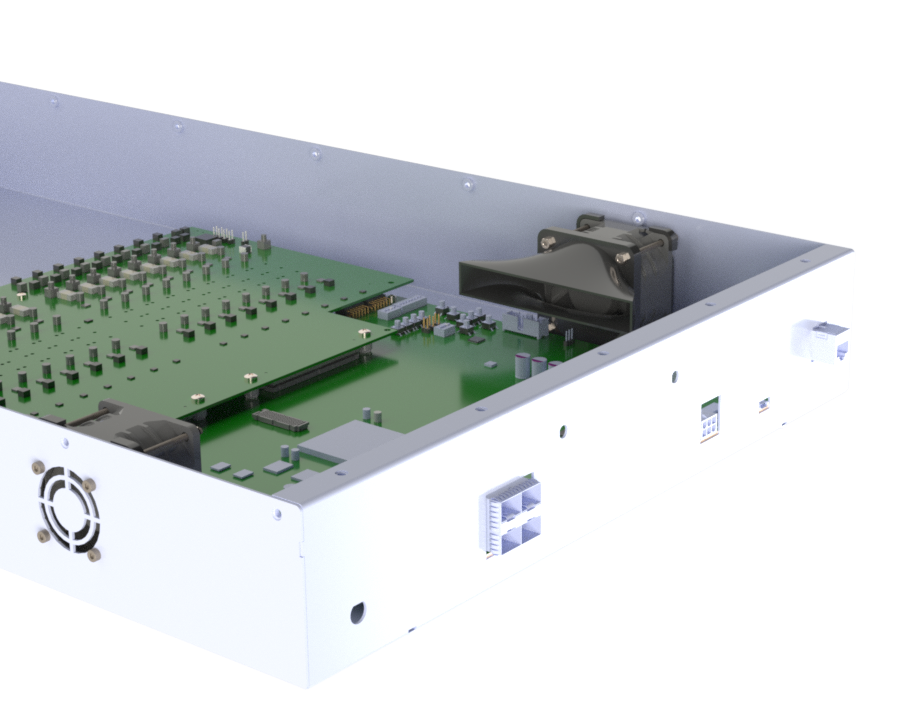
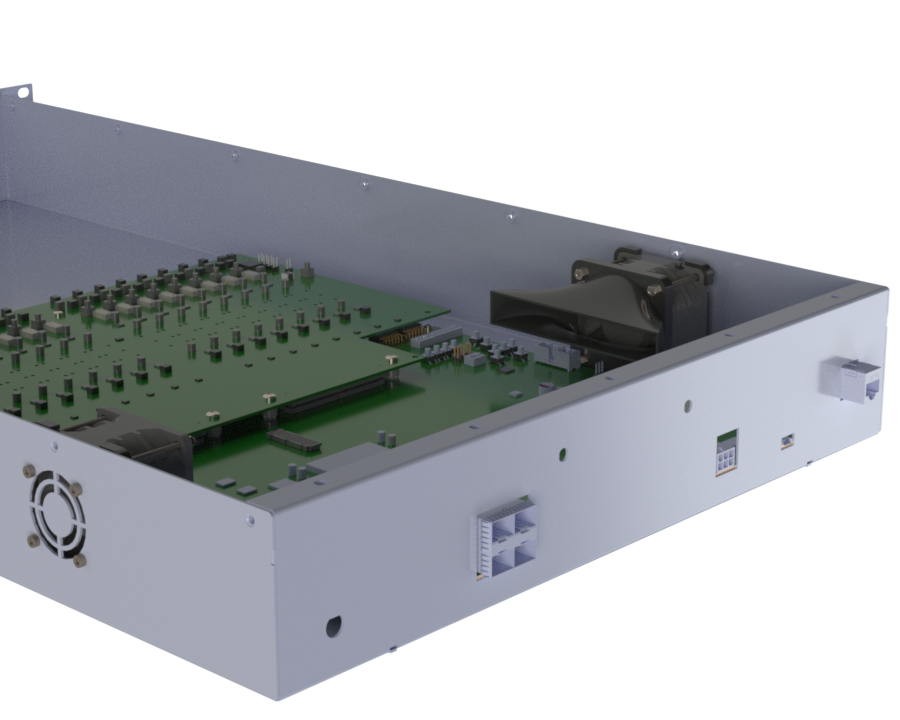
aresgt

diff --git a/docs/stylesheets/extra.css b/docs/stylesheets/extra.css
@@ -140,3 +140,88 @@
   color: var(--md-default-fg-color--light);
   margin: 1rem 0 0.4rem;
 }
+
+/* Download cards — bolder alternative to plain button rows */
+.download-cards {
+  display: grid;
+  grid-template-columns: repeat(auto-fit, minmax(190px, 1fr));
+  gap: 1.25rem;
+  margin: 1.5rem 0;
+}
+
+.download-card {
+  position: relative;
+  display: flex;
+  flex-direction: column;
+  align-items: center;
+  text-align: center;
+  padding: 1.75rem 1.25rem 1.5rem;
+  border-radius: 14px;
+  border: 1px solid var(--md-default-fg-color--lightest);
+  background: linear-gradient(165deg, var(--md-code-bg-color) 0%, transparent 120%);
+  overflow: hidden;
+  transition: transform 0.25s ease, box-shadow 0.25s ease, border-color 0.25s ease;
+}
+
+.download-card::before {
+  content: "";
+  position: absolute;
+  top: 0;
+  left: 0;
+  right: 0;
+  height: 4px;
+  background: var(--accent, var(--md-primary-fg-color));
+  opacity: 0.35;
+  transition: opacity 0.25s ease;
+}
+
+.download-card:hover {
+  transform: translateY(-6px);
+  box-shadow: 0 14px 28px rgba(0, 0, 0, 0.28);
+  border-color: var(--accent, var(--md-primary-fg-color));
+}
+
+.download-card:hover::before {
+  opacity: 1;
+}
+
+/* Icon: sized via a wrapper span we control, not a guessed Material internal class */
+.download-card .card-icon {
+  display: inline-flex;
+  width: 2.75rem;
+  height: 2.75rem;
+  margin-bottom: 0.75rem;
+  color: var(--accent, var(--md-primary-fg-color));
+}
+
+.download-card .card-icon svg,
+.download-card .card-icon img {
+  width: 100%;
+  height: 100%;
+  fill: currentColor;
+}
+
+.download-card strong {
+  display: block;
+  font-size: 1.05rem;
+  margin-bottom: 0.4rem;
+}
+
+.download-card p {
+  font-size: 0.82rem;
+  color: var(--md-default-fg-color--light);
+  margin: 0 0 1.1rem;
+  min-height: 2.6em;
+}
+
+.download-card a.md-button {
+  width: 100%;
+  border-radius: 999px;
+  border-color: var(--accent, var(--md-primary-fg-color));
+}
+
+.download-card a.md-button:hover {
+  background: var(--accent, var(--md-primary-fg-color));
+  border-color: var(--accent, var(--md-primary-fg-color));
+  color: #fff;
+}

diff --git a/docs/hardware/tpu-pads/corner-pads-overview.md b/docs/hardware/tpu-pads/corner-pads-overview.md
@@ -16,6 +16,26 @@
 
 ---
 
+## HD Renders
+
+<div class="render-scroll" markdown>
+
+![Corner Pad 1 Render](media/Corner_Pad_1.png){: data-gallery="corner-pad-renders" }
+
+![Corner Pad 2 Render](media/Corner_Pad_2.png){: data-gallery="corner-pad-renders" }
+
+![Corner Pad 3 Render](media/Corner_Pad_3.png){: data-gallery="corner-pad-renders" }
+
+![Corner Pad 4 Render](media/Corner_Pad_4.png){: data-gallery="corner-pad-renders" }
+
+</div>
+
+*Renders are shown in order from Corner Pad 1 to Corner Pad 4, left to right.*
+
+<!-- Add more renders by appending additional image lines above, same pattern. -->
+
+---
+
 ## Overview
 
 The RFSoC 4x2 TPU Corner Pad System was developed specifically for the portable RIFTS RFSoC 4x2 enclosure to improve durability during transportation, handling, and field deployment.
@@ -90,6 +110,23 @@ The completed corner pad assemblies provide full enclosure corner protection, re
 !!! note
     Since all four pads assemble and install identically, both procedures shown apply equally regardless of which pad you're working with.
 
+### Corner Numbering Diagram
+
+![Corner Numbering Diagram](/hardware/tpu-pads/rfsoc-4x2-corner-pads/Corner_Pad_Number_Guide.JPG)
+
+*SolidWorks drawing labeling enclosure corners 1–4, showing which corner each pad is designed for.*
+
+### Installed Assembly
+
+<video controls style="width:100%; max-width:640px; border-radius:8px;">
+  <source src="/hardware/tpu-pads/rfsoc-4x2-corner-pads/Corner_Pads_Rotate_View.mp4" type="video/mp4">
+  Your browser does not support the video tag.
+</video>
+
+*SolidWorks rotating view showing all four corner pads installed on the RFSoC 4x2 enclosure — cross-reference with the numbering diagram above to identify which pad goes where.*
+
+<!-- TODO: confirm final video filename once uploaded -->
+
 ---
 
 ## Downloads
@@ -109,24 +146,6 @@ Downloadable CAD and manufacturing files for all four unique corner assemblies (
 [:fontawesome-solid-layer-group: Download All Pads (.3mf — 4 print plates, one per pad)](rfsoc-4x2-corner-pads/RIFTS_CornerPads_All_Print_Bundle.3mf){: .md-button :download}
 [:fontawesome-solid-file-zipper: Download Rigid Insert Only (.zip — SLDPRT, STEP, .3mf)](rfsoc-4x2-corner-pads/RIFTS_CornerPad_Rigid_Insert_Bundle.zip){: .md-button :download}
 
-### HD Renders
-
-<div class="render-scroll" markdown>
-
-![Corner Pad 1 Render](media/Corner_Pad_1.png){: data-gallery="corner-pad-renders" }
-
-![Corner Pad 2 Render](media/Corner_Pad_2.png){: data-gallery="corner-pad-renders" }
-
-![Corner Pad 3 Render](media/Corner_Pad_3.png){: data-gallery="corner-pad-renders" }
-
-![Corner Pad 4 Render](media/Corner_Pad_4.png){: data-gallery="corner-pad-renders" }
-
-</div>
-
-*Renders are shown in order from Corner Pad 1 to Corner Pad 4, left to right.*
-
-<!-- Add more renders by appending additional image lines above, same pattern. -->
-
 ### Notes
 
 - Each **SolidWorks Bundle** (.zip) contains four `.SLDPRT` files (Sections A–D) plus the rigid insert `.SLDPRT`, and requires SolidWorks to open.
@@ -136,27 +155,6 @@ Downloadable CAD and manufacturing files for all four unique corner assemblies (
 - The **Full Assembly** (.SLDASM) is the complete assembled corner pad model (all four sections combined) and requires SolidWorks to open.
 - **Download All Pads** is a single `.3mf` file containing four separate print plates, one per corner pad — load it in Bambu Studio and cycle through the plates to print the full set without opening four separate files.
 - **Rigid Insert Only** provides just the shared insert component on its own, in every format, without needing to open a full pad bundle to get it.
-
----
-
-## Corner Numbering Diagram
-
-![Corner Numbering Diagram](/hardware/tpu-pads/rfsoc-4x2-corner-pads/Corner_Pad_Number_Guide.JPG)
-
-*SolidWorks drawing labeling enclosure corners 1–4, showing which corner each pad is designed for.*
-
----
-
-## Installed Assembly
-
-<video controls style="width:100%; max-width:640px; border-radius:8px;">
-  <source src="/hardware/tpu-pads/rfsoc-4x2-corner-pads/Corner_Pads_Rotate_View.mp4" type="video/mp4">
-  Your browser does not support the video tag.
-</video>
-
-*SolidWorks rotating view showing all four corner pads installed on the RFSoC 4x2 enclosure — cross-reference with the numbering diagram above to identify which pad goes where.*
-
-<!-- TODO: confirm final video filename once uploaded -->
 
 ---
 

diff --git a/docs/hardware/rfsoc-4x2/media.md b/docs/hardware/rfsoc-4x2/media.md
@@ -4,19 +4,47 @@ Downloadable CAD model of the completed RFSoC 4x2 Portable Field Enclosure — t
 
 ---
 
-## Available Formats
+## Downloads
 
-[:fontawesome-solid-file-import: Download CAD Model (.STEP)](../../media/rfsoc-4x2/RIFTS_RFSoC_4x2_Enclosure.STEP){: .md-button :download}
-[:fontawesome-solid-file-import: Download CAD Model (.pda)](../../media/rfsoc-4x2/RIFTS_RFSoC_4x2_Enclosure.pda){: .md-button :download}
+<div class="download-cards" markdown>
+
+<div class="download-card" style="--accent:#4A90D9;" markdown>
+<span class="card-icon">:fontawesome-solid-file-import:</span>
+
+**STEP**
+
+Neutral-format export compatible with SolidWorks, Fusion 360, OnShape, and most other CAD software.
+
+[Download](../../media/rfsoc-4x2/RIFTS_RFSoC_4x2_Enclosure.STEP){: .md-button :download}
+
+</div>
+
+<div class="download-card" style="--accent:#E8833A;" markdown>
+<span class="card-icon">:fontawesome-solid-file-import:</span>
+
+**Protocase Designer**
+
+The exact fabrication package (.pda) submitted for manufacturing — opens in Protocase's free design software.
+
+[Download](../../media/rfsoc-4x2/RIFTS_RFSoC_4x2_Enclosure.pda){: .md-button :download}
+
+</div>
+
+<div class="download-card" style="--accent:#8E5CD9;" markdown>
+<span class="card-icon">:fontawesome-solid-file-image:</span>
+
+**RIFTS Logo**
+
+Vector artwork (.svg) for panel engraving or printing during manufacturing.
+
+[Download](../../media/vectorized RIFTS logo.svg){: .md-button :download}
+
+</div>
+
+</div>
 
 !!! tip "Ordering from Protocase"
     To help avoid some of Protocase's setup fees, it's recommended to provide both the **.STEP** and **.pda** files for your enclosure CAD, along with an **.SVG** file for any logos or engraved artwork, when submitting for manufacturing.
-
----
-
-## RIFTS Logo (SVG)
-
-[:fontawesome-solid-file-image: Download RIFTS Logo (.SVG)](../../media/vectorized RIFTS logo.svg){: .md-button :download}
 
 ---
 

diff --git a/docs/hardware/zcu216/media.md b/docs/hardware/zcu216/media.md
@@ -4,19 +4,47 @@ Downloadable CAD model of the completed ZCU216 RF Shielded Enclosure, Revision B
 
 ---
 
-## Available Formats
+## Downloads
 
-[:fontawesome-solid-file-import: Download CAD Model (.STEP)](../../media/zcu216/RIFTS_ZCU216_Enclosure.STEP){: .md-button :download}
-[:fontawesome-solid-file-import: Download CAD Model (.pda)](../../media/zcu216/RIFTS_ZCU216_Enclosure.pda){: .md-button :download}
+<div class="download-cards" markdown>
+
+<div class="download-card" style="--accent:#4A90D9;" markdown>
+<span class="card-icon">:fontawesome-solid-file-import:</span>
+
+**STEP**
+
+Neutral-format export compatible with SolidWorks, Fusion 360, OnShape, and most other CAD software.
+
+[Download](../../media/zcu216/RIFTS_ZCU216_Enclosure.STEP){: .md-button :download}
+
+</div>
+
+<div class="download-card" style="--accent:#E8833A;" markdown>
+<span class="card-icon">:fontawesome-solid-file-import:</span>
+
+**Protocase Designer**
+
+The exact fabrication package (.pda) submitted for manufacturing — opens in Protocase's free design software.
+
+[Download](../../media/zcu216/RIFTS_ZCU216_Enclosure.pda){: .md-button :download}
+
+</div>
+
+<div class="download-card" style="--accent:#8E5CD9;" markdown>
+<span class="card-icon">:fontawesome-solid-file-image:</span>
+
+**RIFTS Logo**
+
+Vector artwork (.svg) for panel engraving or printing during manufacturing.
+
+[Download](../../media/vectorized RIFTS logo.svg){: .md-button :download}
+
+</div>
+
+</div>
 
 !!! tip "Ordering from Protocase"
     To help avoid some of Protocase's setup fees, it's recommended to provide both the **.STEP** and **.pda** files for your enclosure CAD, along with an **.SVG** file for any logos or engraved artwork, when submitting for manufacturing.
-
----
-
-## RIFTS Logo (SVG)
-
-[:fontawesome-solid-file-image: Download RIFTS Logo (.SVG)](../../media/vectorized RIFTS logo.svg){: .md-button :download}
 
 ---
 

diff --git a/docs/hardware/zcu216/overview.md b/docs/hardware/zcu216/overview.md
@@ -23,11 +23,11 @@
 
 <div class="render-scroll" markdown>
 
-![ZCU216 Enclosure Render 1](media/ZCU216_CoverOn_Isometric_Render.png){: data-gallery="zcu216-renders" }
+![ZCU216 Enclosure Render 1](media/ZCU216_CoverOn_Isometric_Render (2).png){: data-gallery="zcu216-renders" }
 
-![ZCU216 Enclosure Render 2](media/ZCU216_Isometric_Render.png){: data-gallery="zcu216-renders" }
+![ZCU216 Enclosure Render 2](media/ZCU216_Isometric_Render (2).png){: data-gallery="zcu216-renders" }
 
-![ZCU216 Enclosure Render 3](media/ZCU216_Top_Render.png){: data-gallery="zcu216-renders" }
+![ZCU216 Enclosure Render 3](media/ZCU216_Top_Render (3).png){: data-gallery="zcu216-renders" }
 
 ![ZCU216 Enclosure Render 3](media/zcu216_front_render.png){: data-gallery="zcu216-renders" }
 
@@ -36,6 +36,9 @@
 </div>
 
 <!-- Scroll strip — add more renders by appending additional image lines above, same pattern. -->
+
+!!! note
+    Where visible, these renders depict the enclosure fitted with the **Type B (Short) air duct system** — chosen for these renders simply because it looks cooler than the Type A variant. Both duct types are functionally interchangeable; see [Cooling Air Ducts](../ventilation/air-ducts.md) for details on both.
 
 ---
 
